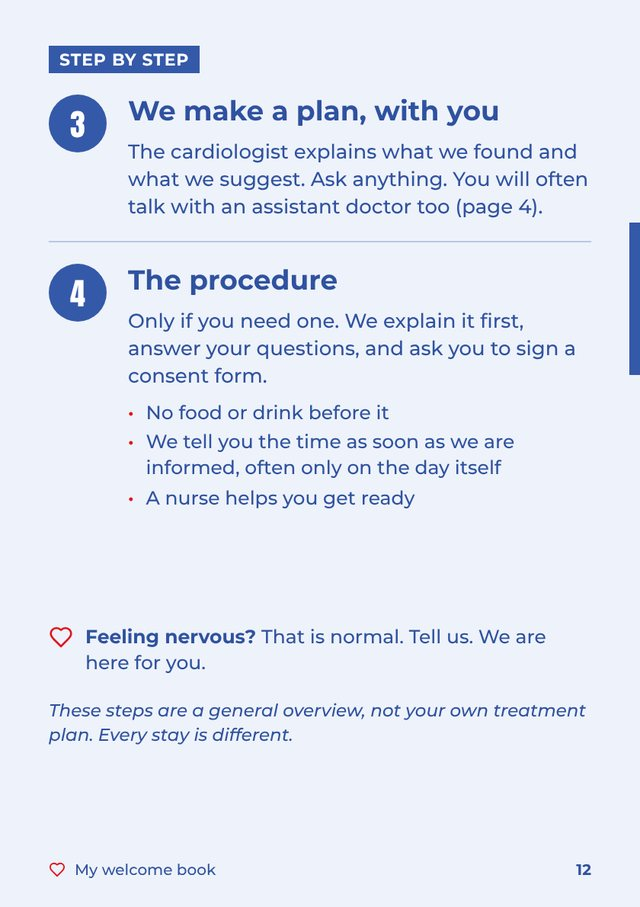
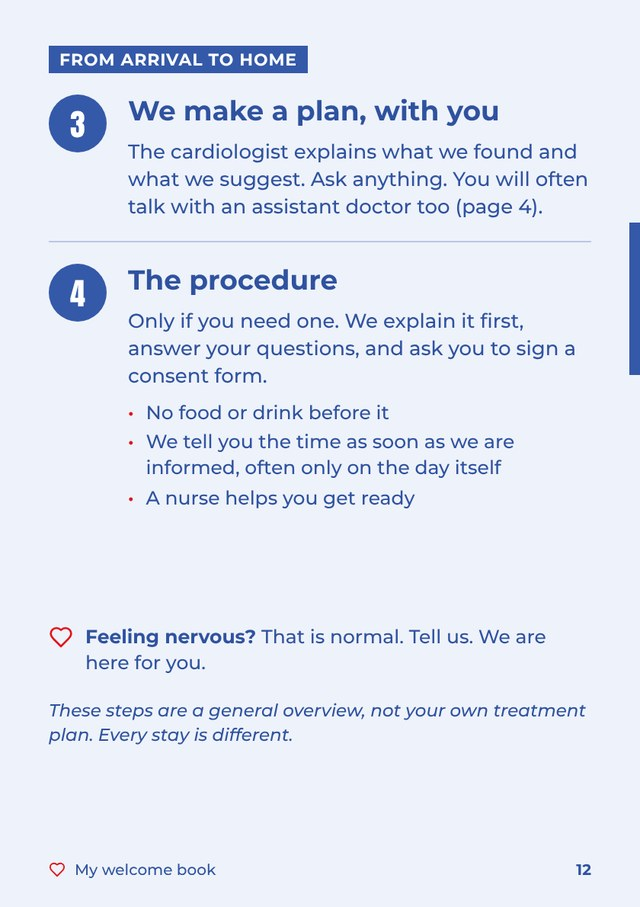
Rename Step by step to From arrival to home
Claude-Session: https://claude.ai/code/session_01HyDvwFtMxTpctGzVKAZtR8

Changed region(s): [[0.0938, 0.0309, 0.5, 0.0926]]

diff --git a/index.html b/index.html
@@ -302,7 +302,7 @@ h1{margin:0;font-family:var(--display);font-weight:400;font-size:clamp(26px,4vw,
 </div>
 
 <script>
-const BOOK_LABELS=["Cover","Section 1: Welcome","Three things you can do now","Who you will meet","Section 2: Your stay","Every day","A day here, morning","Afternoon and night","Your free time","Step by step","Step by step: 1 and 2","Step by step: 3 and 4","Step by step: 5 and 6","Section 3: My questions","Not sure what to ask?","My questions","Something on my mind","Section 4: You are not alone","Story 1","Story 2","Story 3","Back cover"];
+const BOOK_LABELS=["Cover","Section 1: Welcome","Three things you can do now","Who you will meet","Section 2: Your stay","Every day","A day here, morning","Afternoon and night","Your free time","From arrival to home","From arrival to home: 1 and 2","From arrival to home: 3 and 4","From arrival to home: 5 and 6","Section 3: My questions","Not sure what to ask?","My questions","Something on my mind","Section 4: You are not alone","Story 1","Story 2","Story 3","Back cover"];
 const ITEMS=[
  {id:'book',name:'Welcome book',kind:'book',ratio:595/420,
   // Coloured section tabs on the fore-edge, as in the design: divider page, top on a 595-high page, colours, label.
